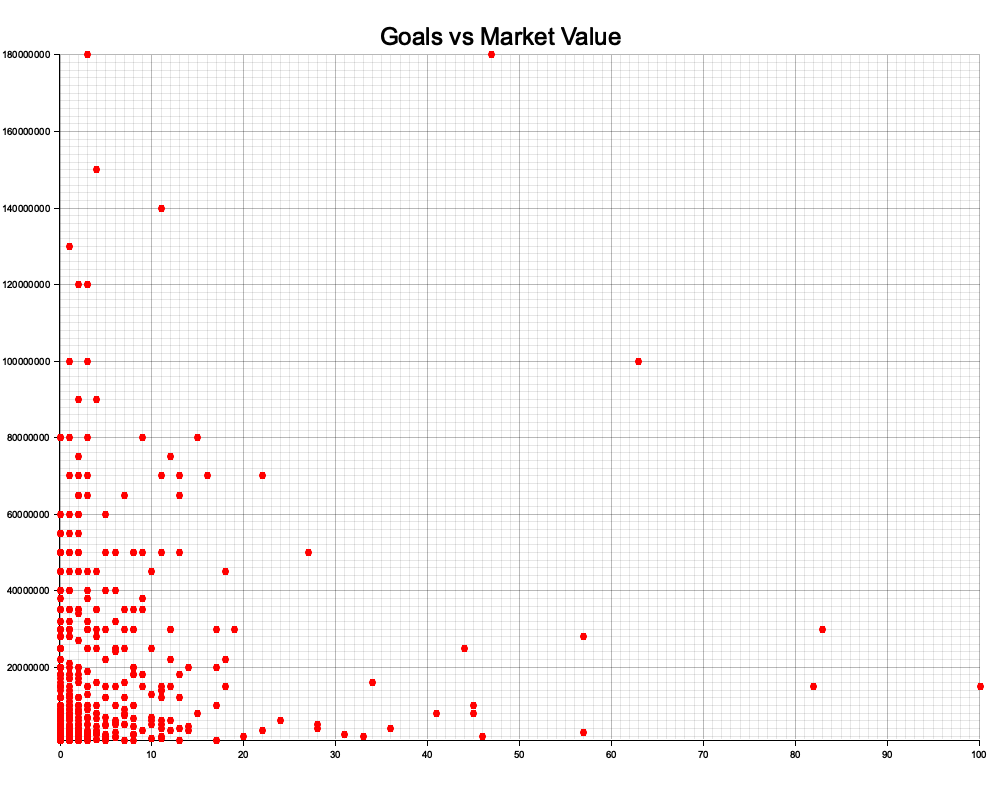
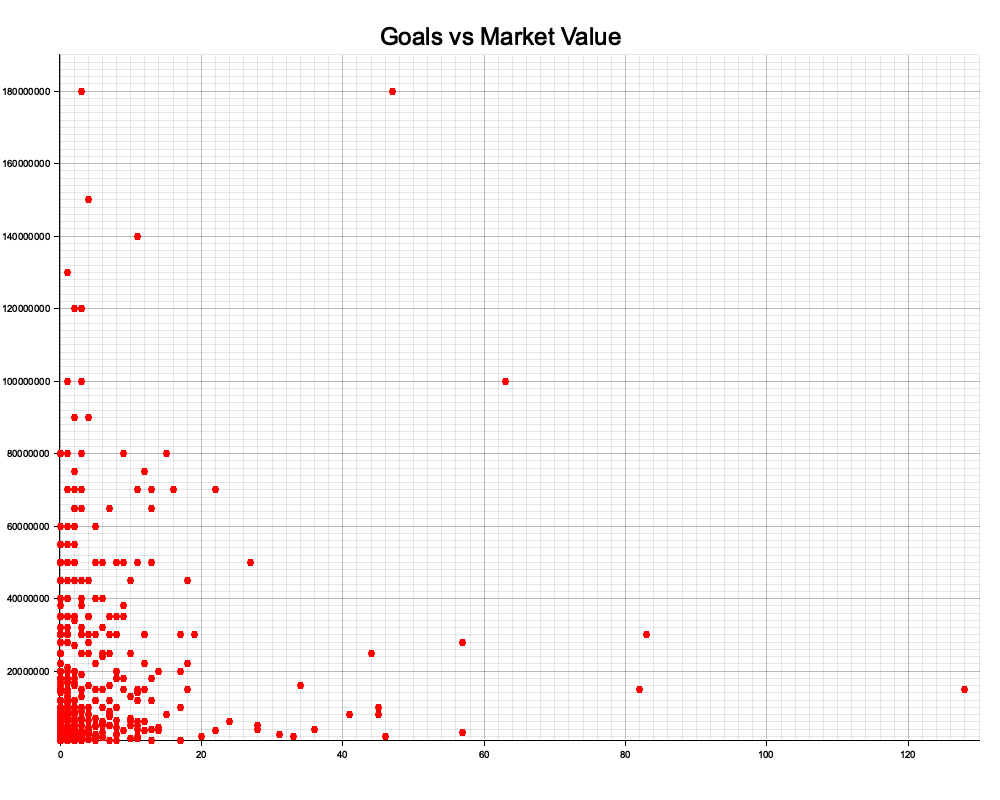
now ploting the linear function

Changed region(s): [[0.0, 0.0625, 0.992, 0.9375], [0.961, 0.9375, 0.992, 0.9688], [0.744, 0.9375, 0.775, 0.9688]]

diff --git a/src/plot.rs b/src/plot.rs
@@ -3,8 +3,7 @@ use std::error::Error;
 
 use crate::models::{Player};
 
-// Function to plot scatter plot
-pub fn plot_scatter(players : &[Player]) -> Result<(), Box<dyn Error>> {
+pub fn plot_all_scatter(players : &[Player]) -> Result<(), Box<dyn Error>> {
     let root_area = BitMapBackend::new("images/scatter_plot.png", (1000, 800)).into_drawing_area();
     root_area.fill(&WHITE)?;
 
@@ -13,13 +12,53 @@ pub fn plot_scatter(players : &[Player]) -> Result<(), Box<dyn Error>> {
         .margin(20)
         .x_label_area_size(40)
         .y_label_area_size(40)
-        .build_cartesian_2d(0..100,1_000_000..180_000_000)?;
+        .build_cartesian_2d(0..130,1_000_000..190_000_000)?;
 
     chart.configure_mesh().draw()?;
 
     // Draw the scatter plot
     chart.draw_series(
         players.iter().map(|player| Circle::new((player.goals, player.market_value), 3, RED.filled())),
+    )?;
+
+    Ok(())
+}
+
+// Function to plot scatter plot with linear regression line
+pub fn plot_scatter_with_regression(players: &[Player], m: f64, b: f64) -> Result<(), Box<dyn Error>> {
+    let root_area = BitMapBackend::new("images/lin_reg_scatter.png", (1200, 1000)).into_drawing_area();
+    root_area.fill(&WHITE)?;
+
+    let mut chart = ChartBuilder::on(&root_area)
+        .caption("Goals vs Market Value of Players < 50 Goals & < 100m Market Value", ("sans-serif", 30))
+        .margin(40)
+        .x_label_area_size(40)
+        .y_label_area_size(70)
+        .build_cartesian_2d(0..50, 1_000_000..100_000_000)?;
+
+    chart.configure_mesh()
+        .x_desc("Number of Goals")
+        .y_desc("Market Value in Euros")
+        .draw()?;
+
+    // Draw the scatter plot
+    chart.draw_series(
+        players.iter().map(|player| Circle::new((player.goals, player.market_value), 3, RED.filled())),
+    )?;
+
+    // Draw the regression line
+    let regression_line = LineSeries::new(
+        (0..60).map(|x| (x, (m * x as f64 + b) as i32)),
+        BLUE.stroke_width(3),
+    );
+    chart.draw_series(regression_line)?;
+
+    // Add a caption for the regression line
+    let text_style = TextStyle::from(("sans-serif", 20).into_font()).color(&BLACK);
+    root_area.draw_text(
+        &format!("Blue Regression: y = {:.2} * x + {:.2}", m, b),
+        &text_style,
+        ((root_area.dim_in_pixel().1 as f32 * 0.75) as i32, (root_area.dim_in_pixel().1 as f32 * 0.95) as i32),
     )?;
 
     Ok(())

diff --git a/src/main.rs b/src/main.rs
@@ -8,7 +8,7 @@ mod models;
 use models::{Player, SortingCriteria}; // Import types from models
 mod statistics;
 mod plot;
-use crate::plot::plot_scatter;
+use crate::plot::{plot_all_scatter, plot_scatter_with_regression};
 mod linear_regression;
 use linear_regression::{extract_goals_and_market_value, train_linear_regression, predict_market_value, predict_goals};
 
@@ -85,8 +85,8 @@ fn main() -> Result<(), Box<dyn Error>> {
     }
     println!();
 
-    // Plot scatter plot
-    plot_scatter(&players)?;
+    // Plot all players
+    plot_all_scatter(&players)?;
 
     // Print top 10 most valuable players
     print_top_10(&players, SortingCriteria::MarketValue);
@@ -111,6 +111,10 @@ fn main() -> Result<(), Box<dyn Error>> {
     let market_value = 17603072.43;
     let pred_goals = predict_goals(market_value, m, b);
     println!("Prediction: a player with  market value of {:.2} € is expected to have {:.1} nationalteam goals ", market_value, pred_goals);
+
+
+    // plot players in regression and regression function
+    plot_scatter_with_regression(&players, m, b)?;
 
     Ok(())
 }

diff --git a/README.md b/README.md
@@ -28,6 +28,8 @@ cargo run
 open images/scatter_plot.png
 ```
 
+![plot](images/lin_reg_scatter.png)
+
 ## Project Structure
 ```
 ├── Cargo.lock
@@ -36,12 +38,13 @@ open images/scatter_plot.png
 ├── euro2024_players.csv -> dataset
 ├── images
 │   ├── labeled_scatter.png
+│   ├── lin_reg_scatter.png
 │   └── scatter_plot.png
 └── src
     ├── linear_regression.rs -> calulates linear_regression to predict market-value given nationalteam-goals & vice versa
     ├── main.rs -> entrypoint & dataset processing (csv to rust vector)
     ├── models.rs -> defines data structures
     ├── statistics.rs -> function to compute statistical measures
-    ├── plot.rs -> plot relationship of goals x-axis and market-value y-axis
+    ├── plot.rs -> plot relationship of goals x-axis and market-value y-axis & linear function
     └── top_ten.rs -> function for printing top 10 players
 ```
